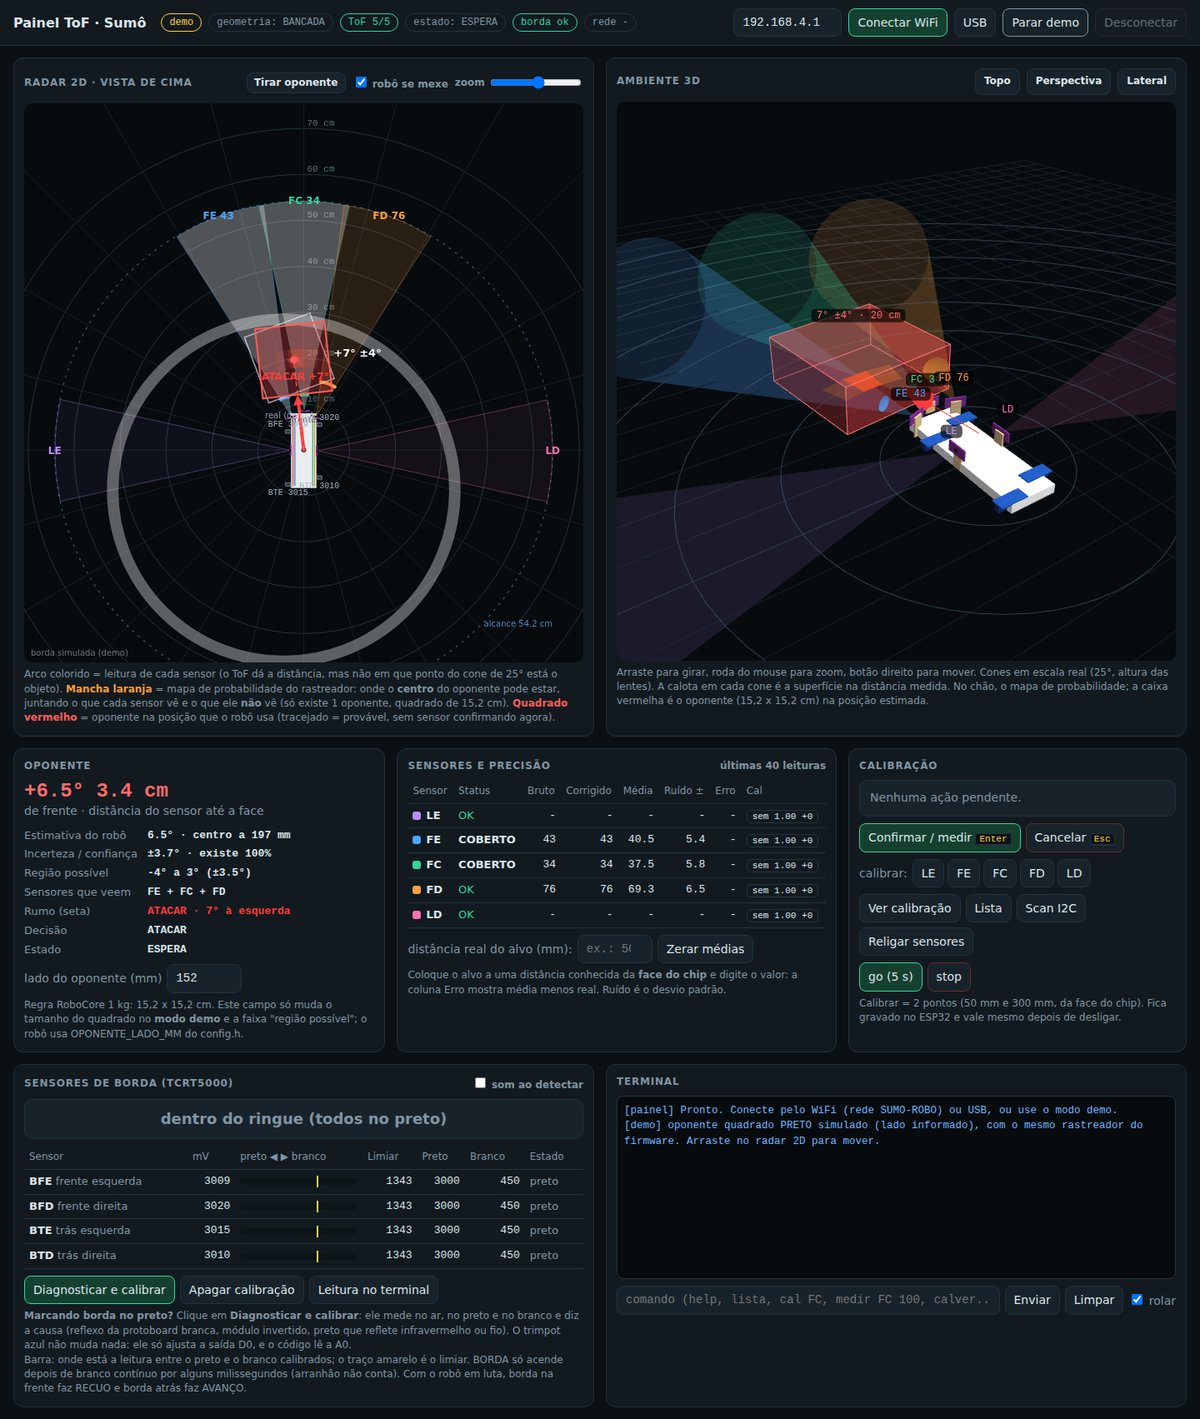
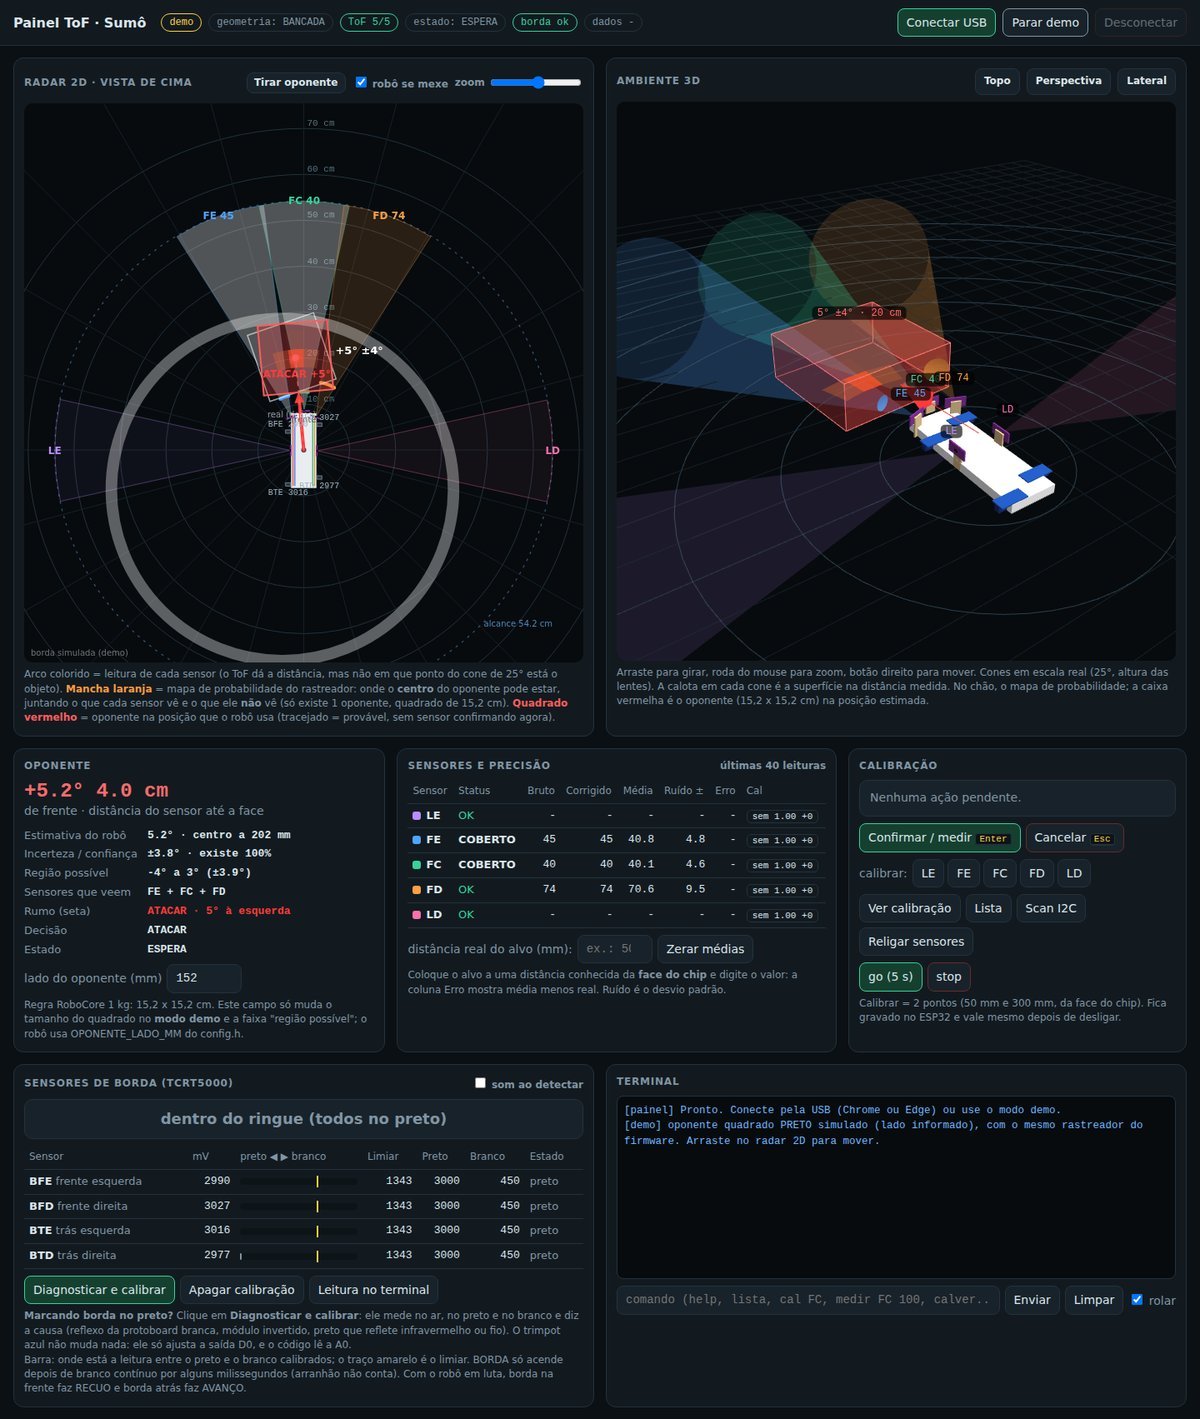
docs: atualiza README e imagem do painel sem WiFi

diff --git a/README.md b/README.md
@@ -5,8 +5,9 @@
 ![Linguagem](https://img.shields.io/badge/linguagem-C%2B%2B-00599C)
 ![Disciplina](https://img.shields.io/badge/UFMG-ELE635-8a1538)
 ![Status](https://img.shields.io/badge/status-bancada%20de%20teste-orange)
+[![Compilação](https://github.com/felcoslop/LAB_III_Grupo_D_UFMG_2026_2/actions/workflows/compilacao.yml/badge.svg)](https://github.com/felcoslop/LAB_III_Grupo_D_UFMG_2026_2/actions/workflows/compilacao.yml)
 
-Firmware e painel de telemetria do robô sumô autônomo da classe de 1 kg do **Grupo D**, desenvolvido na disciplina ELE635 Laboratório de Sistemas III da UFMG. O ESP32 lê cinco sensores de distância VL53L0X e quatro sensores de linha TCRT5000, estima onde está o oponente com um filtro bayesiano em grade e decide o movimento com uma máquina de estados. Um painel web, servido pelo próprio ESP32, mostra sensores, mapa de probabilidade, rumo e estado em 2D e 3D.
+Firmware e painel de telemetria do robô sumô autônomo da classe de 1 kg do **Grupo D**, desenvolvido na disciplina ELE635 Laboratório de Sistemas III da UFMG. O ESP32 lê cinco sensores de distância VL53L0X e quatro sensores de linha TCRT5000, estima onde está o oponente com um filtro bayesiano em grade e decide o movimento com uma máquina de estados. Um painel web, que abre direto no navegador e conversa com o robô pela USB, mostra sensores, mapa de probabilidade, rumo e estado em 2D e 3D.
 
 ![Painel do robô em modo demo, com radar 2D, ambiente 3D, tabela de precisão e sensores de borda](doc/img/painel_demo.jpg)
 
@@ -21,13 +22,14 @@ Firmware e painel de telemetria do robô sumô autônomo da classe de 1 kg do **
 - [Mapa do código](#mapa-do-código)
 - [Configuração](#configuração)
 - [Estrutura de pastas](#estrutura-de-pastas)
+- [Integração contínua](#integração-contínua)
 - [Equipe](#equipe)
 
 ## Contexto
 
 O projeto faz parte da disciplina ELE635 Laboratório de Sistemas III, do curso de Engenharia de Sistemas da UFMG, no semestre 2026/2, com o Prof. Gustavo Medeiros Freitas. A disciplina cobre o ciclo completo de um projeto de engenharia, da concepção até a competição, e o robô segue a classe de 1000 g (Lego/Vex Sumô) das regras de sumô da RoboCore [ROBOCORE, s.d.]: massa de até 1000 g, base de 15,2 x 15,2 cm, dojô (no código, dohyo) preto de 77 cm de diâmetro com borda branca de 2,5 cm, controle totalmente autônomo e início obrigatório 5 s depois do comando.
 
-A versão atual roda em uma bancada de teste. Os sensores ficam presos em uma protoboard que faz o papel de chassi provisório, o ESP32 é alimentado por um carregador portátil e a telemetria sai pelo WiFi. Nessa fase os motores ficam desligados no firmware (`USAR_MOTORES 0`), mas a máquina de estados roda normalmente e o painel mostra o comando que iria para cada roda.
+A versão atual roda em uma bancada de teste. Os sensores ficam presos em uma protoboard que faz o papel de chassi provisório, e o ESP32 fica ligado ao computador pela USB, que alimenta a placa e leva a telemetria. Nessa fase os motores ficam desligados no firmware (`USAR_MOTORES 0`), mas a máquina de estados roda normalmente e o painel mostra o comando que iria para cada roda.
 
 ## Funcionalidades
 
@@ -37,14 +39,15 @@ A versão atual roda em uma bancada de teste. Os sensores ficam presos em uma pr
 - Rumo (a seta do painel) até o oponente ou até os pontos cegos, usado pela máquina de estados na busca.
 - Leitura analógica da linha branca, com confirmação por tempo e calibração guiada em três medidas (ar, preto e branco).
 - Máquina de estados com contagem obrigatória de 5 s, busca, mira, ataque e fuga da borda.
-- Rede WiFi própria com painel 2D e 3D embutido no ESP32, dados a 50 Hz e comandos pelo navegador.
+- Painel 2D e 3D em um único arquivo HTML, sem internet, ligado ao robô pela USB, com dados a 50 Hz e comandos pelo navegador.
+- Firmware sem rádio: o robô compete de forma autônoma, sem WiFi e sem Bluetooth, o que deixa o núcleo 0 livre para o rastreador.
 - Terminal de comandos pela USB ou pelo painel para teste, calibração e diagnóstico.
 
 ## Hardware
 
 | Componente | Qtd. | Uso no projeto |
 |---|---|---|
-| ESP32 DevKit V1 (30 pinos) com placa de expansão | 1 | microcontrolador de dois núcleos, com WiFi e ADC |
+| ESP32 DevKit V1 (30 pinos) com placa de expansão | 1 | microcontrolador de dois núcleos, com ADC (o rádio fica desligado) |
 | VL53L0X (placas CJVL53L0XV2 / GY-530) | 5 | distância até o oponente: LE, FE, FC, FD e LD |
 | TCRT5000 com comparador LM393 | 4 | linha branca da borda, lida pela saída analógica A0 |
 | TB6612FNG | 1 | ponte H dos dois motores (desativada na bancada) |
@@ -61,7 +64,7 @@ A versão atual roda em uma bancada de teste. Os sensores ficam presos em uma pr
 | TB6612 PWMA / AIN1 / AIN2 | 18 / 19 / 23 | motor esquerdo, STBY ligado direto no 3V3 |
 | TB6612 PWMB / BIN1 / BIN2 | 4 / 16 / 17 | motor direito |
 
-Todos os sensores ficam no 3V3 do ESP32. As placas clone do VL53L0X puxam SDA e SCL para 2,8 V, nível que o ESP32 entende como 1, e o firmware nunca coloca nível alto no XSHUT: para desligar um sensor o pino vira saída em LOW e, para ligar, vira entrada com o pull-up interno. Os sensores de borda usam pinos do ADC1 porque o ADC2 do ESP32 fica indisponível com o WiFi ligado.
+Todos os sensores ficam no 3V3 do ESP32. As placas clone do VL53L0X puxam SDA e SCL para 2,8 V, nível que o ESP32 entende como 1, e o firmware nunca coloca nível alto no XSHUT: para desligar um sensor o pino vira saída em LOW e, para ligar, vira entrada com o pull-up interno. Os sensores de borda usam os pinos 34, 35, 36 e 39 do ADC1, que servem só como entrada e combinam com a saída A0 dos módulos.
 
 Na bancada (`GEOMETRIA_BANCADA 1`), a origem do referencial é o centro da protoboard, com x para a frente e y para a esquerda, em milímetros:
 
@@ -86,12 +89,12 @@ Os PDFs da pasta `doc/` trazem os gabaritos em escala 1:1 da bancada e do robô,
 | Biblioteca VL53L0X da Pololu | 1.3.1 | Gerenciador de Bibliotecas |
 | Python 3 | 3.x | necessário só para gerar o painel de novo |
 
-O firmware usa o core do ESP32 [ESPRESSIF SYSTEMS, s.d.] e a biblioteca VL53L0X da Pololu [POLOLU, s.d.]. As bibliotecas WiFi, ESPmDNS, Preferences e Wire já vêm com o core.
+O firmware usa o core do ESP32 [ESPRESSIF SYSTEMS, s.d.] e a biblioteca VL53L0X da Pololu [POLOLU, s.d.]. As bibliotecas Preferences e Wire já vêm com o core.
 
 ### Passo a passo
 
-1. Extração do zip em uma pasta chamada `sumo_esp32`. A Arduino IDE exige que o nome da pasta seja igual ao do arquivo `.ino`, e o "Extrair tudo" do Windows usa o nome do zip, então `sumo_esp32.zip` já gera a pasta certa. Em um clone do repositório, o nome da pasta precisa do mesmo cuidado.
-2. Abertura do `sumo_esp32.ino` na IDE. Os outros arquivos `.h` e `.cpp` aparecem como abas, e a pasta `src/` entra na compilação.
+1. Extração do zip em uma pasta chamada `sumo_esp32`. A Arduino IDE exige que o nome da pasta seja igual ao do arquivo `.ino`, e o "Extrair tudo" do Windows usa o nome do zip, então `sumo_esp32.zip` já gera a pasta certa. Em um clone do repositório, o nome da pasta precisa do mesmo cuidado, por exemplo com `git clone https://github.com/felcoslop/LAB_III_Grupo_D_UFMG_2026_2 sumo_esp32`.
+2. Abertura do `sumo_esp32.ino` na IDE. Os outros arquivos `.h` e `.cpp` aparecem como abas.
 3. Ajustes no menu Ferramentas, conforme a tabela abaixo.
 4. Compilação e gravação pela USB, com o botão Carregar.
 5. Monitor Serial em 115200 baud, com a opção "Nova linha".
@@ -99,10 +102,8 @@ O firmware usa o core do ESP32 [ESPRESSIF SYSTEMS, s.d.] e a biblioteca VL53L0X 
 | Opção em Ferramentas | Valor |
 |---|---|
 | Placa | ESP32 Dev Module |
-| Partition Scheme | Huge APP (3MB No OTA/1MB SPIFFS) |
+| Partition Scheme | padrão (o firmware cabe com folga) |
 | Porta | porta COM do ESP32 |
-
-O esquema de partição maior é necessário porque o painel comprimido ocupa cerca de 180 KB dentro do firmware.
 
 ## Uso
 
@@ -132,13 +133,10 @@ Os comandos funcionam no Monitor Serial e no terminal do painel.
 | `tempo` | duração do ciclo do loop, tempo do rastreador e linhas descartadas na USB |
 | `go` e `stop` | início (contagem de 5 s) e parada da máquina de estados |
 | `s1` e `s0` | stream de dados para o painel, ligado e desligado |
-| `wifi` | modo da rede, endereço IP e painéis conectados |
 
-### Painel pelo WiFi
+### Painel pela USB
 
-Com `USAR_WIFI 1`, o ESP32 cria a rede **SUMO-ROBO** (senha `sumo1234`). Depois de conectar o celular ou o notebook nessa rede, o endereço http://192.168.4.1 abre o painel direto do ESP32, sem internet; em sistemas com mDNS, http://sumo.local também funciona. O painel conecta sozinho no stream de dados e envia comandos para o mesmo terminal da USB. A página só sai do ESP32 com o robô em ESPERA, porque o envio de 180 KB pode segurar o loop por alguns instantes.
-
-O arquivo `painel_sumo.html` também abre direto no Chrome ou no Edge do computador, sem internet, porque o three.js está embutido nele [THREE.JS, 2022]. Nesse caso, a conexão pode ser pelo WiFi (botão "Conectar WiFi" com o endereço 192.168.4.1) ou pela USB (botão "USB", que usa a Web Serial do navegador a 115200 baud). O botão "Modo demo" simula um oponente preto de 15,2 cm e roda em JavaScript o mesmo rastreador do firmware; o quadrado pode ser arrastado no radar 2D e, com a opção "robô se mexe", o robô simulado obedece à seta.
+O arquivo `painel_sumo.html` abre direto no Chrome ou no Edge do computador, sem internet, porque o three.js está embutido nele [THREE.JS, 2022]. O botão "Conectar USB" usa a Web Serial do navegador a 115200 baud; logo depois de abrir a porta, o painel envia `s1` e passa a receber os dados a 50 Hz. O Monitor Serial da IDE precisa estar fechado, porque só um programa por vez usa a porta. O botão "Modo demo" simula um oponente preto de 15,2 cm e roda em JavaScript o mesmo rastreador do firmware; o quadrado pode ser arrastado no radar 2D e, com a opção "robô se mexe", o robô simulado obedece à seta.
 
 | Oponente à vista (rumo ATACAR) | Arena vazia (rumo PROCURAR) |
 |---|---|
@@ -171,10 +169,10 @@ flowchart LR
     PER --> EST["estados.cpp<br/>máquina de estados"]
     EST --> MOT["motores.cpp<br/>TB6612FNG"]
     PER --> DEB["debug.cpp<br/>comandos e stream"]
-    DEB --> TEL["telemetria.cpp<br/>Log, HTTP e SSE"]
+    DEB --> TEL["telemetria.cpp<br/>Log pela USB"]
     TEL --> USB["Monitor Serial"]
     TEL --> PAI["painel_sumo.html"]
-    PAI -- "/cmd" --> TEL
+    PAI -- "comandos pela USB" --> TEL
 ```
 
 Nenhum módulo usa `delay()` dentro do loop. Cada volta chama os módulos na ordem abaixo, e cada um faz uma parte pequena do trabalho e devolve o controle.
@@ -184,10 +182,9 @@ Nenhum módulo usa `delay()` dentro do loop. Cada volta chama os módulos na ord
 | 1 | `percepcao_atualiza()` | percepcao.cpp | leitura dos sensores, fusão, rumo e montagem de `P` |
 | 2 | `estados_passo()` | estados.cpp | decisão e comando dos motores |
 | 3 | `percepcao_manutencao()` | percepcao.cpp | nova tentativa nos ToF que caíram, só em ESPERA |
-| 4 | `telemetria_passo()` | telemetria.cpp | atendimento do WiFi sem bloquear |
-| 5 | `debug_passo()` | debug.cpp | comandos e envio de dados para o painel |
+| 4 | `debug_passo()` | debug.cpp | comandos e envio de dados para o painel |
 
-O ESP32 tem dois núcleos. O loop do Arduino roda no núcleo 1, e o rastreador bayesiano, que leva alguns milissegundos por passo, roda em uma tarefa do FreeRTOS no núcleo 0. A troca de dados entre os dois acontece dentro de uma trava curta (spinlock), então o loop nunca espera o filtro terminar.
+O ESP32 tem dois núcleos. O loop do Arduino roda no núcleo 1, e o rastreador bayesiano, que leva alguns milissegundos por passo, roda em uma tarefa do FreeRTOS no núcleo 0. Como o firmware não liga o rádio, a pilha do WiFi não disputa esse núcleo com o rastreador. A troca de dados entre os dois acontece dentro de uma trava curta (spinlock), então o loop nunca espera o filtro terminar.
 
 O referencial é o mesmo em todo o código: origem no centro de giro do robô, x para a frente, y para a esquerda e ângulo positivo para a esquerda. Com isso, o ângulo do oponente já é o quanto o robô precisa girar.
 
@@ -195,7 +192,7 @@ O referencial é o mesmo em todo o código: origem no centro de giro do robô, x
 
 ### `sumo_esp32.ino`
 
-Arquivo principal. O `setup()` configura primeiro os motores, para o robô nascer parado, cria um buffer de 4 KB na serial e inicializa telemetria, percepção, máquina de estados e debug. O `loop()` apenas chama os módulos na ordem da tabela de arquitetura.
+Arquivo principal. O `setup()` configura primeiro os motores, para o robô nascer parado, cria um buffer de 4 KB na serial e inicializa percepção, máquina de estados e debug. O `loop()` apenas chama os módulos na ordem da tabela de arquitetura.
 
 ### `config.h`
 
@@ -271,14 +268,7 @@ Controle da ponte H TB6612FNG, com valores de -255 a 255 por roda. Os pinos IN1 
 
 ### `telemetria.h` e `telemetria.cpp`
 
-Saída de texto e servidor web, só com as bibliotecas do core do ESP32. O objeto `Log` substitui o `Serial` em todo o projeto: cada linha vai inteira para a USB e para os painéis conectados. As linhas de dados são descartadas na USB quando o buffer está cheio, e no WiFi o envio usa `MSG_DONTWAIT`, então uma rede lenta perde quadros mas nunca segura o robô. O stream usa Server-Sent Events, que o navegador reconecta sozinho e que não exigem biblioteca extra.
-
-| Endereço | Resposta |
-|---|---|
-| `/` | painel comprimido em gzip (somente em ESPERA) |
-| `/stream` | linhas do `Log` em tempo real (Server-Sent Events), até 2 painéis |
-| `/cmd?c=lista` | comando entregue ao terminal, como se tivesse sido digitado |
-| `/ping` | resposta curta para medir o atraso |
+Saída de texto e entrada de comandos pela USB. O objeto `Log` substitui o `Serial` em todo o projeto: cada linha sai inteira, o que deixa o painel ler sem pedaços misturados. As linhas de dados (`D`, `Q` e `M`) são descartadas quando o buffer da serial está cheio, então o robô nunca fica esperando a USB; o comando `tempo` mostra quantas linhas foram descartadas. A função `entrada_le()` entrega ao debug os caracteres que chegam do Monitor Serial ou do painel.
 
 ### `debug.h` e `debug.cpp`
 
@@ -286,16 +276,16 @@ Comandos de teste e calibração, os modos contínuos (`ver`, `id`, `borda`) e o
 
 | Linha | Conteúdo | Quando |
 |---|---|---|
-| `G`, `I`, `C` | geometria, status e calibração de cada ToF | conexão do painel e comando `s1` |
-| `R` | posição, limiar e calibração de cada sensor de borda | conexão do painel e comando `s1` |
-| `B`, `E`, `K`, `X` | corpo do robô, nomes dos estados, alcance e parâmetros do rastreador | conexão do painel e comando `s1` |
+| `G`, `I`, `C` | geometria, status e calibração de cada ToF | comando `s1`, enviado pelo painel ao conectar |
+| `R` | posição, limiar e calibração de cada sensor de borda | comando `s1` e depois de cada calibração |
+| `B`, `E`, `K`, `X` | corpo do robô, nomes dos estados, alcance e parâmetros do rastreador | comando `s1` |
 | `D` | leituras, oponente, estado, saúde, incerteza, existência e rumo | a cada 20 ms |
 | `Q` | borda confirmada, borda crua e mV de cada sensor | a cada 20 ms |
 | `M` | mapa de probabilidade comprimido | a cada 250 ms |
 
 ### Painel
 
-O `painel_sumo.html` é o painel completo, com o three.js e o OrbitControls embutidos. O código fonte fica em `doc/painel_src.html`, e o script `doc/gera_painel.py` junta o fonte com as bibliotecas de `doc/vendor/`, gera o `painel_sumo.html` e cria o `src/painel_gz.h`, que guarda a versão comprimida servida pelo ESP32. Qualquer mudança no painel exige rodar `python doc/gera_painel.py` e gravar o firmware de novo.
+O `painel_sumo.html` é o painel completo, com o three.js e o OrbitControls embutidos. O código fonte fica em `doc/painel_src.html`, e o script `doc/gera_painel.py` junta o fonte com as bibliotecas de `doc/vendor/` e gera o `painel_sumo.html`. Qualquer mudança no painel exige rodar `python doc/gera_painel.py` e fazer o commit dos dois arquivos; o CI confere se eles estão iguais.
 
 ### Documentos de montagem
 
@@ -322,9 +312,8 @@ Os ajustes principais ficam no `config.h`:
 | `BORDA_LIMIAR_MV` | 600 | limiar fixo da borda antes da calibração |
 | `BORDA_FRACAO` | 0,35 | posição do limiar calibrado entre o branco e o preto |
 | `BORDA_CONFIRMA_MS` | 3 | tempo mínimo de branco contínuo para confirmar a borda |
-| `USAR_BORDA`, `USAR_MOTORES`, `USAR_WIFI` | 1, 0, 1 | liga e desliga cada parte do hardware |
-| `WIFI_AP_SSID` e `WIFI_AP_SENHA` | SUMO-ROBO e sumo1234 | rede própria do ESP32 |
-| `WIFI_STA_SSID` e `WIFI_STA_SENHA` | vazios | roteador opcional; sem conexão em 8 s, vale a rede própria |
+| `USAR_BORDA` e `USAR_MOTORES` | 1 e 0 | liga e desliga cada parte do hardware |
+| `STREAM_MS` | 20 | intervalo dos dados enviados ao painel pela USB |
 | `VEL_ATAQUE`, `VEL_GIRO`, `VEL_BUSCA`, `VEL_RECUO` | 255, 200, 120, 220 | velocidades de -255 a 255 |
 | `T_CONTAGEM_MS` | 5000 | contagem obrigatória antes da luta |
 | `T_GIRO_BORDA_MS` | 250 | tempo do giro de fuga da borda (precisa de medida) |
@@ -343,14 +332,14 @@ sumo_esp32/
   borda.h / .cpp            TCRT5000: leitura analógica, limiar e confirmação
   estados.h / .cpp          máquina de estados
   motores.h / .cpp          TB6612FNG
-  telemetria.h / .cpp       Log, WiFi, servidor HTTP e Server-Sent Events
+  telemetria.h / .cpp       Log e entrada de comandos pela USB
   debug.h / .cpp            comandos, calibração e stream para o painel
   painel_sumo.html          painel completo para abrir no computador
-  src/
-    painel_gz.h             painel comprimido servido pelo ESP32 (gerado)
+  .github/workflows/
+    compilacao.yml          CI: compilação do firmware e conferência do painel
   doc/
     painel_src.html         código fonte do painel
-    gera_painel.py          gera o painel_sumo.html e o src/painel_gz.h
+    gera_painel.py          gera o painel_sumo.html
     gera_bancada.py         gera o gabarito_bancada.pdf
     gera_guia.py            gera o guia_montagem_sensores.pdf
     gabarito_bancada.pdf    gabarito 1:1 da bancada
@@ -358,6 +347,10 @@ sumo_esp32/
     img/                    imagens deste README
     vendor/                 three.js r147, OrbitControls e licença MIT
 ```
+
+## Integração contínua
+
+O workflow `.github/workflows/compilacao.yml` roda em todo pull request para a `main` e em todo push na `main`. Ele compila o firmware para o ESP32 Dev Module na linha 2.x (2.0.17) e na linha 3.x (3.3.0) do core da Espressif, com a biblioteca VL53L0X 1.3.1, e publica o uso de flash e RAM no resumo da execução. Um segundo teste gera o painel de novo a partir do `doc/painel_src.html` e falha se o `painel_sumo.html` versionado estiver diferente. As mudanças entram na `main` por pull request ligado a uma issue, depois dos testes passarem.
 
 ## Equipe
 
